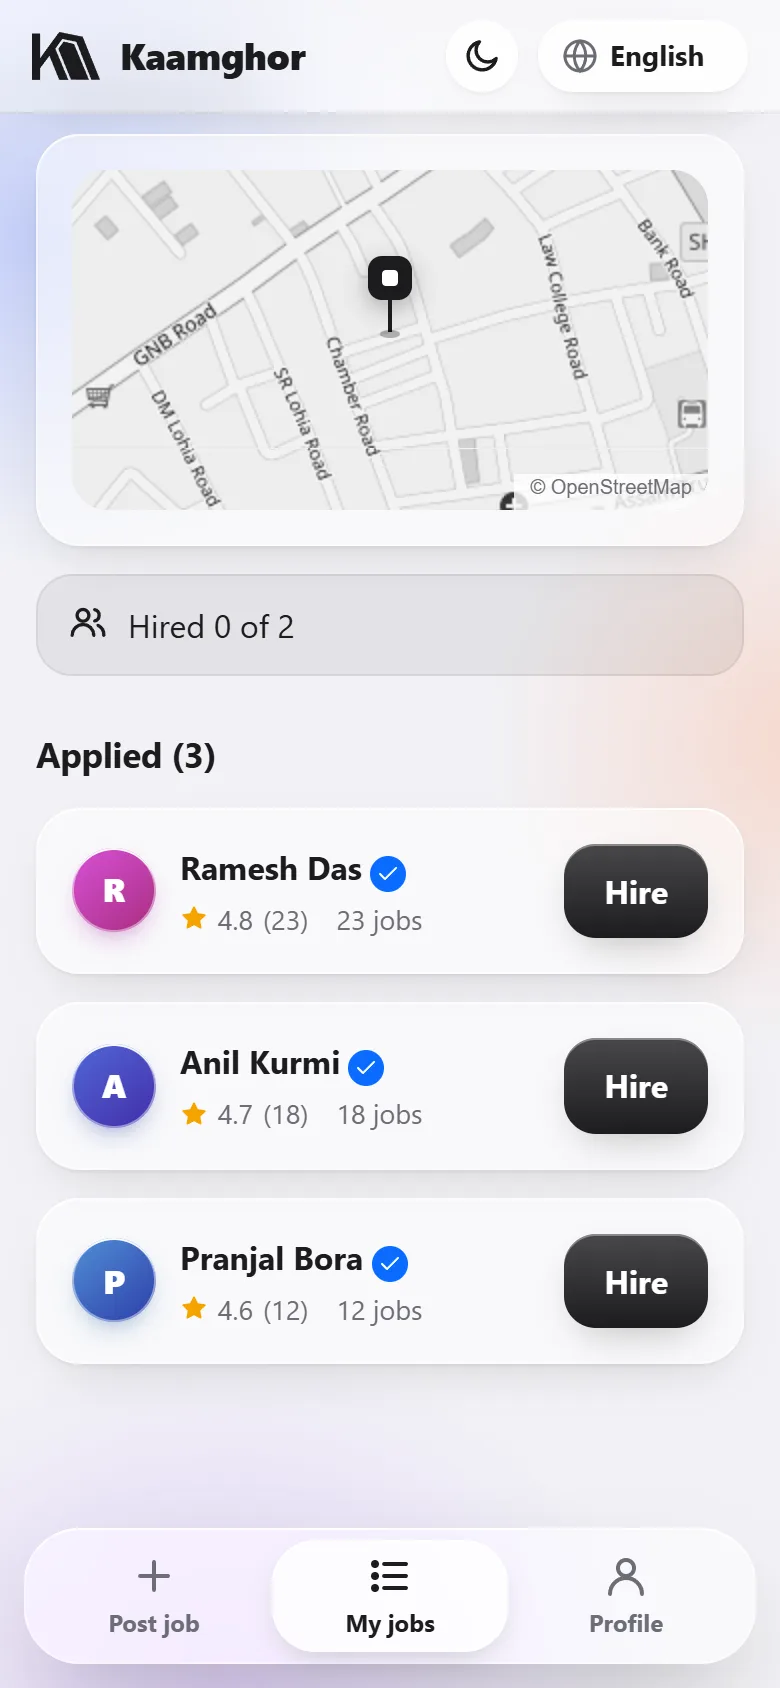
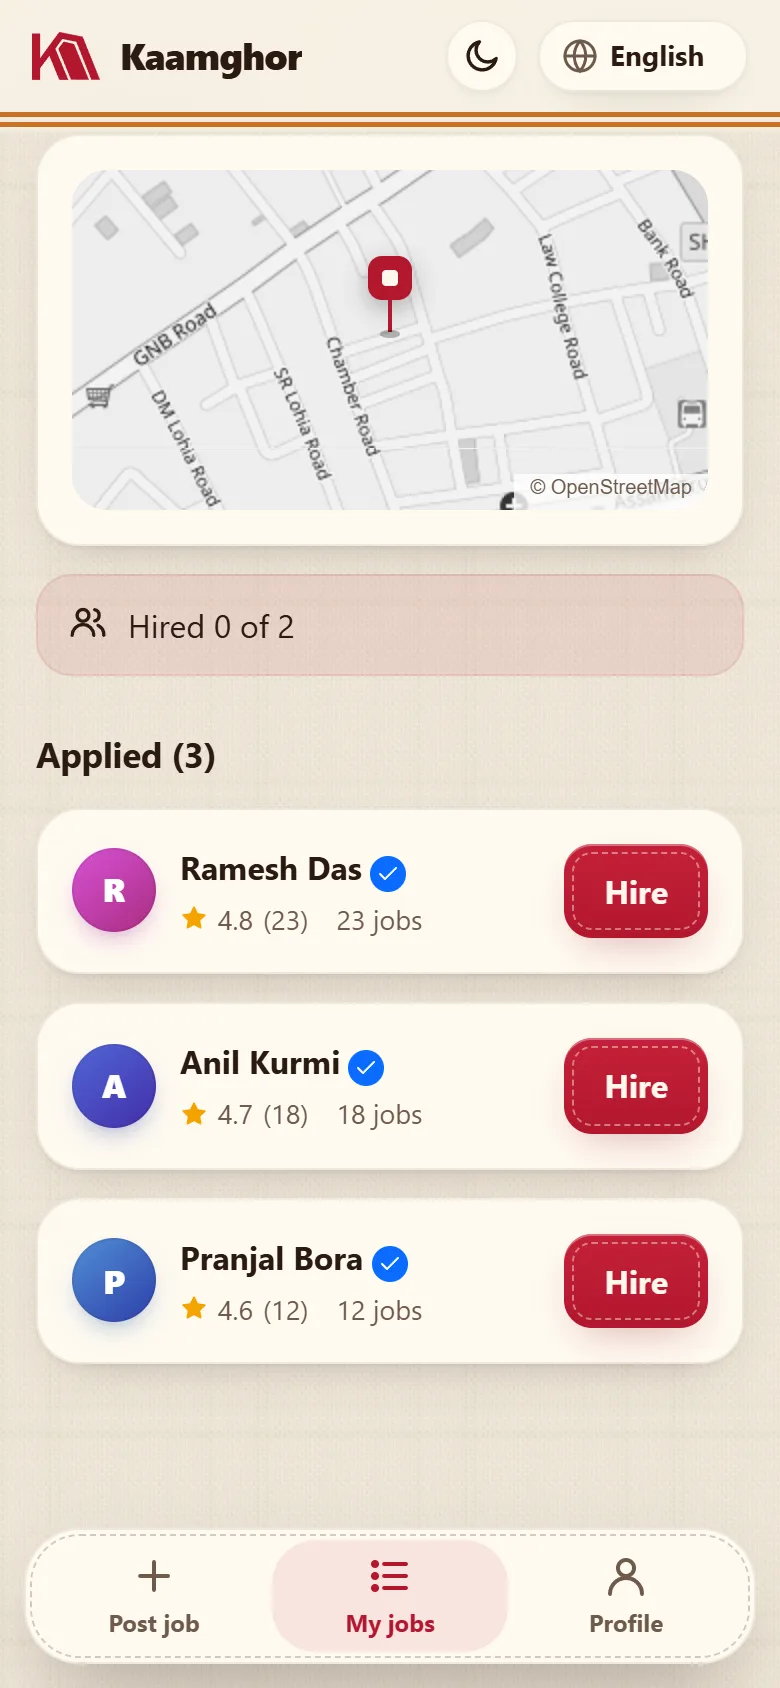
App: the gamosa look inside both apps
Cloth background, red thread for Kaamghor and gold for Partner, a gamosa
trim under the header, stitched buttons and tab bar, woven page titles,
Phosphor duotone service icons, the logo C tile and a gamosa band on the
login screen, and a warm dark mode. Manifests and theme colour move to
cotton; the service worker caches the icon font and typeface. Landing
screenshots retaken.

diff --git a/web/index.html b/web/index.html
@@ -5,10 +5,15 @@
 <meta name="viewport" content="width=device-width, initial-scale=1, viewport-fit=cover">
 <title>Kaamghor</title>
 <meta name="description" content="Trusted daily-wage help for homes in Tinsukia, Assam.">
-<meta name="theme-color" content="#f2f2f6" id="themeColor">
+<meta name="theme-color" content="#f8f2e6" id="themeColor">
 <link rel="manifest" href="manifest.webmanifest">
 <link rel="icon" href="icon.svg" type="image/svg+xml">
 <link rel="apple-touch-icon" href="icon-192.png">
+<link rel="preconnect" href="https://fonts.googleapis.com">
+<link rel="preconnect" href="https://fonts.gstatic.com" crossorigin>
+<link href="https://fonts.googleapis.com/css2?family=Tiro+Bangla&display=swap" rel="stylesheet">
+<!-- Service icons: Phosphor (MIT), duotone. The service worker keeps a copy for offline use. -->
+<link rel="stylesheet" href="https://unpkg.com/@phosphor-icons/web@2.1.1/src/duotone/style.css">
 <style>
 /* ---------- Tokens. Neutral graphite UI; glass sits over soft blue, peach and lavender light. ---------- */
 :root {
@@ -485,6 +490,92 @@ html.lite dialog::backdrop { -webkit-backdrop-filter: none; backdrop-filter: non
 @media (prefers-reduced-motion: reduce) {
   *, *::before, *::after { animation-duration: .01ms !important; animation-iteration-count: 1 !important; transition-duration: .01ms !important; }
 }
+
+/* ===================== Gamosa =====================
+   The app wears the same cloth as the landing page: unbleached cotton, gamosa-red thread for
+   homes (gold for Partner), dark ink, a gamosa trim under the header and stitched edges.
+   These come last so they set the look over the rules above. */
+@font-face { font-family: Bowa; src: url(assets/fonts/bowa.woff2) format('woff2'); font-display: swap; }
+:root {
+  --bg: #f8f2e6; --solid: #fffaf1; --text: #2b1a12; --muted: #6f5a4a; --line: rgba(43,26,18,.12); --line-2: rgba(43,26,18,.22);
+  --brand: #b3172e; --brand-2: #c42038; --brand-ink: #fff8ee; --brand-soft: rgba(179,23,46,.09); --brand-glow: rgba(143,16,36,.35);
+  --amber: #a65a16; --accent: #a65a16; --accent-soft: rgba(200,115,38,.14);
+  --glass: rgba(255,250,241,.86); --glass-strong: #fffaf1; --glass-input: #fffdf8;
+  --hi: inset 0 0 0 1px rgba(43,26,18,.08);
+  --shadow: 0 1px 2px rgba(43,26,18,.06), 0 10px 24px -14px rgba(43,26,18,.32);
+  --shadow-lg: 0 20px 44px -16px rgba(43,26,18,.42);
+  --cloth-opacity: 1;
+  --woven: Bowa, "Tiro Bangla", system-ui, sans-serif;
+}
+:root[data-theme="dark"] {
+  --bg: #17110d; --solid: #241a14; --text: #f3ecdf; --muted: #b4a291; --line: rgba(243,236,223,.1); --line-2: rgba(243,236,223,.2);
+  --brand: #d8394f; --brand-2: #e2526a; --brand-ink: #fff8ee; --brand-soft: rgba(224,71,93,.15); --brand-glow: rgba(0,0,0,.55);
+  --amber: #e08a35; --accent: #e08a35; --accent-soft: rgba(224,138,53,.16);
+  --glass: rgba(36,26,20,.9); --glass-strong: #2c2019; --glass-input: rgba(243,236,223,.05);
+  --hi: inset 0 0 0 1px rgba(243,236,223,.07);
+  --shadow: 0 1px 2px rgba(0,0,0,.4), 0 12px 28px -14px rgba(0,0,0,.7);
+  --shadow-lg: 0 24px 50px -16px rgba(0,0,0,.8);
+  --cloth-opacity: .06;
+}
+@media (prefers-color-scheme: dark) {
+  :root:not([data-theme="light"]) {
+    --bg: #17110d; --solid: #241a14; --text: #f3ecdf; --muted: #b4a291; --line: rgba(243,236,223,.1); --line-2: rgba(243,236,223,.2);
+    --brand: #d8394f; --brand-2: #e2526a; --brand-ink: #fff8ee; --brand-soft: rgba(224,71,93,.15); --brand-glow: rgba(0,0,0,.55);
+    --amber: #e08a35; --accent: #e08a35; --accent-soft: rgba(224,138,53,.16);
+    --glass: rgba(36,26,20,.9); --glass-strong: #2c2019; --glass-input: rgba(243,236,223,.05);
+    --hi: inset 0 0 0 1px rgba(243,236,223,.07);
+    --shadow: 0 1px 2px rgba(0,0,0,.4), 0 12px 28px -14px rgba(0,0,0,.7);
+    --shadow-lg: 0 24px 50px -16px rgba(0,0,0,.8);
+    --cloth-opacity: .06;
+  }
+}
+/* Kaamghor Partner is woven in gold thread. */
+:root.partner { --brand: #a65a16; --brand-2: #c8762a; --brand-soft: rgba(200,115,38,.12); --brand-glow: rgba(166,90,22,.4); }
+:root.partner[data-theme="dark"] { --brand: #e08a35; --brand-2: #ec9b4b; --brand-soft: rgba(224,138,53,.15); }
+@media (prefers-color-scheme: dark) { :root.partner:not([data-theme="light"]) { --brand: #e08a35; --brand-2: #ec9b4b; --brand-soft: rgba(224,138,53,.15); } }
+
+/* The cloth behind everything (very faint in dark mode). */
+body::before { inset: 0; background: url(assets/gamosa-cloth.svg) repeat 0 0 / 104px; opacity: var(--cloth-opacity); }
+
+/* Header: the logo in thread colour, with a gamosa trim along its foot. */
+.top { background: color-mix(in srgb, var(--bg) 92%, transparent); border-bottom: 0; }
+.top::after { content: ""; position: absolute; left: 0; right: 0; bottom: -10px; height: 10px; pointer-events: none;
+  background: url(assets/gamosa-trim.svg) repeat-x top / auto 22px; }
+.top.scrolled { box-shadow: none; }
+.brand .logo { color: var(--brand); }
+#brandName { font-weight: 900; letter-spacing: -.02em; }
+.ptag { background: var(--amber); }
+
+/* Page titles are woven in the thread colour. */
+main h1 { font-family: var(--woven); font-weight: 400; letter-spacing: .01em; color: var(--brand); }
+.title-row h1, main > h1 { font-size: 29px; }
+
+/* Buttons in thread colour with a stitched edge; quieter buttons get a quieter stitch. */
+.btn { border-radius: 14px; }
+.btn::before { content: ""; position: absolute; inset: 4px; border-radius: 10px; border: 1.5px dashed rgba(255,255,255,.42); pointer-events: none; }
+.btn.ghost::before, .btn.soft::before, .btn.danger::before, .btn.google::before { border-color: var(--line); }
+.btn.sm { border-radius: 12px; }
+.btn.sm::before { inset: 3px; border-radius: 9px; }
+.btn.ghost { color: var(--brand); }
+
+/* Cards: plain paper on the cloth. */
+.card { background: var(--solid); }
+.choice > span { background: var(--solid); }
+
+/* The bottom bar: paper with a stitched edge; the current tab is a patch of thread colour. */
+#tabs { background: var(--solid); }
+#tabs::after { content: ""; position: absolute; inset: 3px; border-radius: 25px; border: 1.5px dashed var(--line-2); pointer-events: none; }
+#tabs::before { background: var(--brand-soft); box-shadow: none; }
+
+/* Service icons: Phosphor duotone, in thread colour (stand-ins until our own are drawn). */
+.sk { color: var(--brand); }
+.sk i { display: block; line-height: 1; }
+.job-ic.sk { background: var(--brand-soft); }
+
+/* Login: the logo tile, the name woven, and a gamosa border at the foot. */
+.hero-logo { display: block; width: 96px; height: 96px; margin: 0 auto; border-radius: 24px; box-shadow: var(--shadow); }
+.hero h1 { font-size: 40px; margin-top: 16px; }
+.login-band { height: 92px; margin: 34px -18px 0; background: url(assets/gamosa-border.svg) repeat-x center / auto 100%; }
 </style>
 <script>
 // Decide before first paint: saved light/dark choice, and whether this phone gets blur.
@@ -886,10 +977,9 @@ const T = {
 // Must match valid_skill() and valid_area() in sql/01_schema.sql.
 const SKILLS = ['clean', 'cook', 'garden', 'paint', 'helper', 'plumb', 'elec', 'care', 'health', 'other'];
 // Line icon and tile hue for each kind of work.
-const SKILL_ICON = { clean: ['sparkles', 205], cook: ['pot', 22], garden: ['sprout', 135], paint: ['roller', 330], helper: ['package', 255], plumb: ['wrench', 190], elec: ['zap', 42], care: ['heart', 300], health: ['medical', 0], other: ['dots', 220] };
+const SKILL_ICON = { clean: 'broom', cook: 'cooking-pot', garden: 'plant', paint: 'paint-roller', helper: 'package', plumb: 'wrench', elec: 'lightning', care: 'hand-heart', health: 'first-aid-kit', other: 'toolbox' };
 function skillIcon(s, size = 24, cls = '') {
-  const [name, hue] = SKILL_ICON[s];
-  return `<span class="sk ${cls}" style="--h:${hue}">${icon(name, size)}</span>`;
+  return `<span class="sk ${cls}"><i class="ph-duotone ph-${SKILL_ICON[s]}" style="font-size:${size}px" aria-hidden="true"></i></span>`;
 }
 const AREAS = ['town', 'hijuguri', 'borguri', 'rangagora', 'bordoloi', 'chandmari'];
 const LOCALE = { en: 'en-IN', as: 'as-IN', hi: 'hi-IN' };
@@ -1093,7 +1183,7 @@ function isDark() {
 }
 function paintThemeChrome() {
   const dark = isDark();
-  $('#themeColor').content = dark ? '#0a0a0c' : '#f2f2f6';
+  $('#themeColor').content = dark ? '#17110d' : '#f8f2e6';
   const b = $('#themeBtn');
   const label = t(dark ? 'lightMode' : 'darkMode');
   b.innerHTML = icon(dark ? 'sun' : 'moon', 20);
@@ -1193,7 +1283,7 @@ function showLogin() {
   $('#tabs').hidden = true;
   const L = S.login;
   const langs = `<div class="langs">${['en', 'as', 'hi'].map((l) => `<button type="button" data-act="lang" data-lang="${l}" class="${S.lang === l ? 'on' : ''}">${{ en: 'English', as: 'অসমীয়া', hi: 'हिन्दी' }[l]}</button>`).join('')}</div>`;
-  const hero = `<div class="hero"><div class="hero-mark"><svg class="logo" aria-hidden="true"><use href="#kg-mark"/></svg></div><h1>${te('appName')}${PARTNER ? ` <span class="ptag">${te('partner')}</span>` : ''}</h1><div class="muted">${te(PARTNER ? 'taglinePartner' : 'tagline')}</div></div>`;
+  const hero = `<div class="hero"><img class="hero-logo" src="icon.svg" alt=""><h1>${te('appName')}${PARTNER ? ` <span class="ptag">${te('partner')}</span>` : ''}</h1><div class="muted">${te(PARTNER ? 'taglinePartner' : 'tagline')}</div></div>`;
   if (L.step === 'intro') {
     const slides = INTRO[ENTRY];
     main.innerHTML = `${langs}
@@ -1223,6 +1313,7 @@ function showLogin() {
         </form>
       </div>
       <div id="installSlot"></div>
+      <div class="login-band" aria-hidden="true"></div>
       ${crossLink()}`;
     updateInstallSlot();
   } else if (L.step === 'phone') {

diff --git a/web/sw.js b/web/sw.js
@@ -2,7 +2,7 @@
 // App files: network first (always the latest when online), saved copy if offline or the network
 // takes longer than 4 s. The pinned supabase-js file never changes, so it is served from the cache.
 // Change CACHE only to throw away old copies (for example after renaming files).
-const CACHE = 'kaamghor-v16';
+const CACHE = 'kaamghor-v17';
 const SUPABASE_JS = 'https://cdn.jsdelivr.net/npm/@supabase/supabase-js@2.45.4/dist/umd/supabase.min.js';
 const SHELL = ['./', './index.html', './api.js', './manifest.webmanifest', './icon.svg', './logo.svg', './icon-192.png', './icon-512.png', './terms.html', SUPABASE_JS];
 const SLOW_MS = 4000;
@@ -23,9 +23,11 @@ self.addEventListener('fetch', (e) => {
   if (req.method !== 'GET') return;
   const url = new URL(req.url);
 
-  if (req.url === SUPABASE_JS) {
+  // Fixed files from CDNs (supabase-js, the icon font, the Assamese typeface): saved once, served from the copy.
+  if (req.url === SUPABASE_JS || /^https:\/\/(unpkg\.com\/@phosphor-icons\/web@2\.1\.1\/|fonts\.googleapis\.com\/|fonts\.gstatic\.com\/)/.test(req.url)) {
     e.respondWith(caches.match(req).then((hit) => hit || fetch(req).then((res) => {
-      if (res.ok) caches.open(CACHE).then((c) => c.put(req, res.clone()));
+      // Stylesheets from other sites come back opaque; they are still fine to keep.
+      if (res.ok || res.type === 'opaque') caches.open(CACHE).then((c) => c.put(req, res.clone()));
       return res;
     })));
     return;
